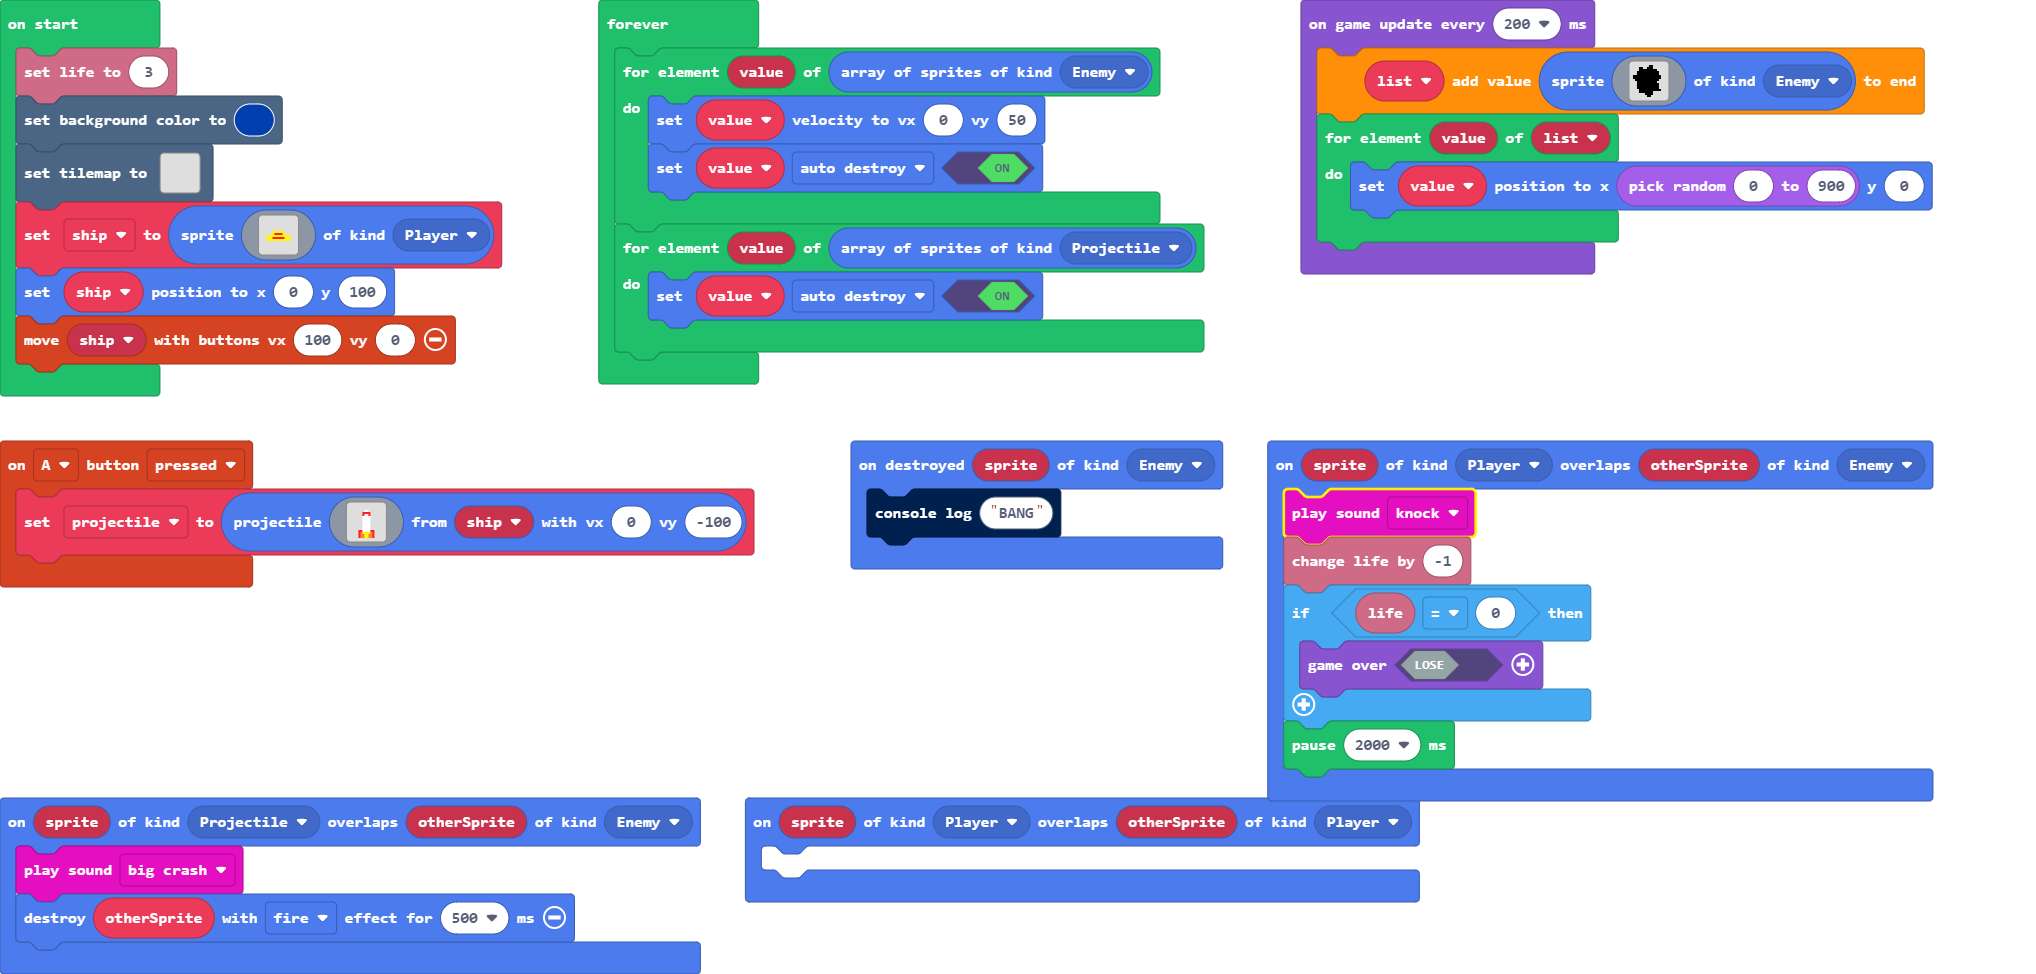
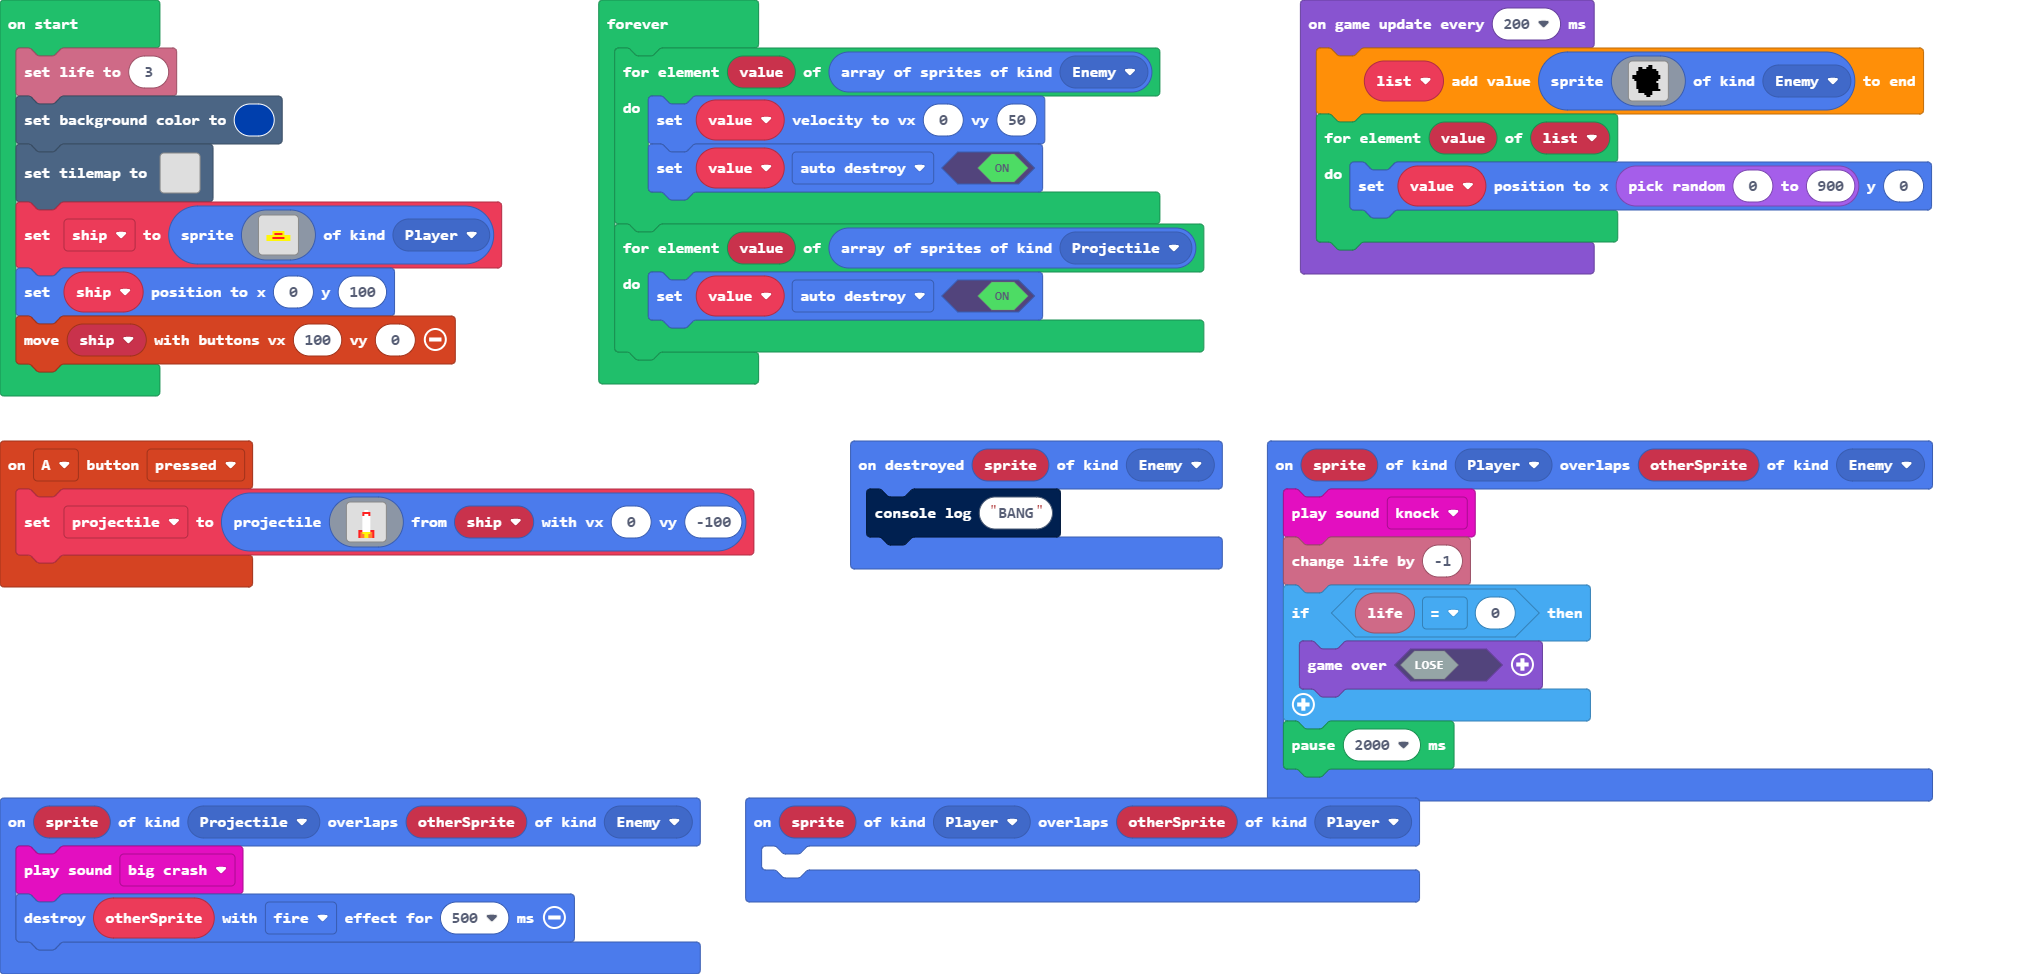
Sounds

diff --git a/main.py b/main.py
@@ -6,34 +6,33 @@ def on_a_pressed():
 controller.A.on_event(ControllerButtonEvent.PRESSED, on_a_pressed)
 
 def on_on_overlap(sprite, otherSprite):
+    pass
+sprites.on_overlap(SpriteKind.player, SpriteKind.player, on_on_overlap)
+
+def on_on_destroyed(sprite):
+    print("BANG")
+sprites.on_destroyed(SpriteKind.enemy, on_on_destroyed)
+
+def on_on_overlap2(sprite, otherSprite):
+    music.big_crash.play()
+    otherSprite.destroy(effects.fire, 500)
+sprites.on_overlap(SpriteKind.projectile, SpriteKind.enemy, on_on_overlap2)
+
+def on_on_overlap3(sprite, otherSprite):
+    music.knock.play()
     info.change_life_by(-1)
     if info.life() == 0:
         game.over(False)
-sprites.on_overlap(SpriteKind.player, SpriteKind.enemy, on_on_overlap)
+    pause(2000)
+sprites.on_overlap(SpriteKind.player, SpriteKind.enemy, on_on_overlap3)
 
 projectile: Sprite = None
 ship: Sprite = None
 info.set_life(3)
 scene.set_background_color(8)
-astroid = sprites.create(img("""
-        . . . . . . . . f f . . . . . . 
-            . . . f f . . f f f . . . . . . 
-            . . . f f f f f f f f f . . . . 
-            . . f f f f f f f f f f f . . . 
-            . . f f f f f f f f f f f . . . 
-            f f f f f f f f f f f f f f . . 
-            f f f f f f f f f f f f f f . . 
-            . f f f f f f f f f f f f . . . 
-            . . f f f f f f f f f f . . . . 
-            . . f f f f f f f f f f f . . . 
-            . . f f f f f f f f f f f . . . 
-            . . f f f f f f f f f f f . . . 
-            . . . f f f f f f f f f f f . . 
-            . . . f f f f f f f . . . . . . 
-            . . . . . . f f f f . . . . . . 
-            . . . . . . . f f . . . . . . .
-    """),
-    SpriteKind.enemy)
+tiles.set_tilemap(tilemap("""
+    level1
+"""))
 ship = sprites.create(img("""
         . . . . . . . . . . . . . . . . 
             . . . . . . . . . . . . . . . . 
@@ -55,10 +54,36 @@ ship = sprites.create(img("""
     SpriteKind.player)
 ship.set_position(0, 100)
 controller.move_sprite(ship, 100, 0)
-for index in range(5):
-    astroid.set_velocity(0, 50)
+
+def on_forever():
+    for value in sprites.all_of_kind(SpriteKind.enemy):
+        value.set_velocity(0, 50)
+        value.set_flag(SpriteFlag.AUTO_DESTROY, True)
+    for value2 in sprites.all_of_kind(SpriteKind.projectile):
+        value2.set_flag(SpriteFlag.AUTO_DESTROY, True)
+forever(on_forever)
 
 def on_update_interval():
-    astroid.set_flag(SpriteFlag.DESTROY_ON_WALL, True)
-    astroid.set_velocity(0, 50)
-game.on_update_interval(500, on_update_interval)
+    list2: List[Sprite] = []
+    list2.append(sprites.create(img("""
+                . . . . . . . . f f . . . . . . 
+                        . . . f f . . f f f . . . . . . 
+                        . . . f f f f f f f f f . . . . 
+                        . . f f f f f f f f f f f . . . 
+                        . . f f f f f f f f f f f . . . 
+                        f f f f f f f f f f f f f f . . 
+                        f f f f f f f f f f f f f f . . 
+                        . f f f f f f f f f f f f . . . 
+                        . . f f f f f f f f f f . . . . 
+                        . . f f f f f f f f f f f . . . 
+                        . . f f f f f f f f f f f . . . 
+                        . . f f f f f f f f f f f . . . 
+                        . . . f f f f f f f f f f f . . 
+                        . . . f f f f f f f . . . . . . 
+                        . . . . . . f f f f . . . . . . 
+                        . . . . . . . f f . . . . . . .
+            """),
+            SpriteKind.enemy))
+    for value3 in list2:
+        value3.set_position(randint(0, 900), 0)
+game.on_update_interval(200, on_update_interval)
